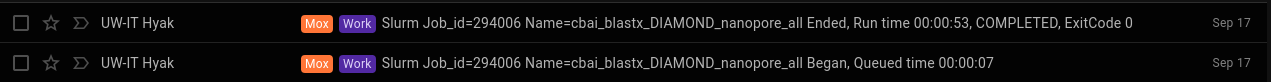
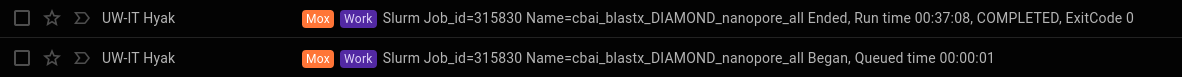
fix/replace elements after re-running with correct db

diff --git a/_posts/2020/2020-09-17-Taxonomic-Assignments---C.bairdi-NanoPore-Reads-Using-DIAMOND-BLASTx-on-Mox-and-MEGAN6-daa2rma-on-swoose.md b/_posts/2020/2020-09-17-Taxonomic-Assignments---C.bairdi-NanoPore-Reads-Using-DIAMOND-BLASTx-on-Mox-and-MEGAN6-daa2rma-on-swoose.md
@@ -34,7 +34,7 @@ SBATCH script (GitHub) for DIAMOND BLASTx on Mox:
 ## Walltime (days-hours:minutes:seconds format)
 #SBATCH --time=10-00:00:00
 ## Memory per node
-#SBATCH --mem=120G
+#SBATCH --mem=200G
 ##turn on e-mail notification
 #SBATCH --mail-type=ALL
 #SBATCH --mail-user=samwhite@uw.edu
@@ -58,10 +58,10 @@ prefix=20200917_cbai_diamond_blastx_nanopore_all_Q7
 threads=28
 
 # Program paths
-diamond=/gscratch/srlab/programs/diamond-0.9.29/diamond
+diamond=/gscratch/srlab/programs/diamond-2.0.4/diamond
 
-# DIAMOND UniProt database
-dmnd_db=/gscratch/srlab/blastdbs/uniprot_sprot_20200123/uniprot_sprot.dmnd
+# DIAMOND NCBI nr database with taxonomy dumps
+dmnd_db=/gscratch/srlab/blastdbs/ncbi-nr-20190925/nr.dmnd
 
 
 ###################################################################################
@@ -98,8 +98,8 @@ ${diamond} blastx \
 --out "${prefix}".blastx.daa \
 --outfmt 100 \
 --top 5 \
---block-size 15.0 \
---index-chunks 4 \
+--block-size 8.0 \
+--index-chunks 1 \
 --threads ${threads}
 
 # Capture program options
@@ -236,7 +236,7 @@ echo "${PATH}" | tr : \\n
 
 #### RESULTS
 
-DIAMOND runtime was quick (as usual), 53s:
+DIAMOND runtime was pretty quick, 37mins:
 
 ![DIAMOND BLASTx runtime of C.baird Q7 NanoPore reads on Mox](https://github.com/RobertsLab/sams-notebook/blob/master/images/screencaps/20200917_cbai_diamond_blastx_nanopore_all_Q7_runtime.png?raw=true)
 
@@ -258,8 +258,4 @@ daa2rma Output folder:
 
 I opened the RMA6 file in MEGAN6 to see the taxonomic breakdown and this is what I got:
 
-![screencap of MEGAN6 C.bairdi NanoPore Q7 - no taxonomic assignments](https://github.com/RobertsLab/sams-notebook/blob/master/images/screencaps/20200917_cbai_nanopore_Q7_MEGAN6_no-assignments.png?raw=true)
-
-No taxonomic assignments!!
-
-Well, that was anti-climatic (and unhelpful)... Maybe after I complete the assembly, I can try again using the FastA...
+![screencap of MEGAN6 C.bairdi NanoPore Q7 taxonomic assignments; Alveolata, Arthropoda, and E.canceri highlighted](https://github.com/RobertsLab/sams-notebook/blob/master/images/screencaps/20200917_cbai_nanopore_Q7_MEGAN6_no-assignments.png?raw=true)
